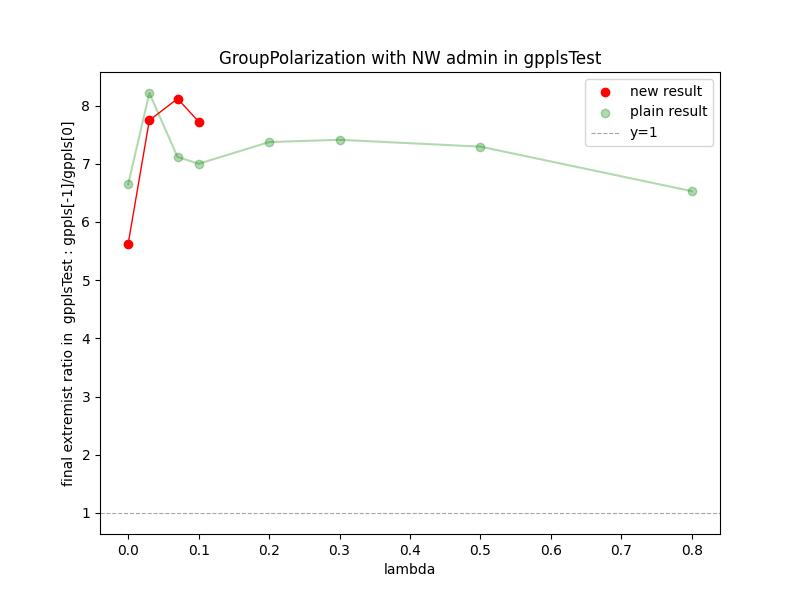
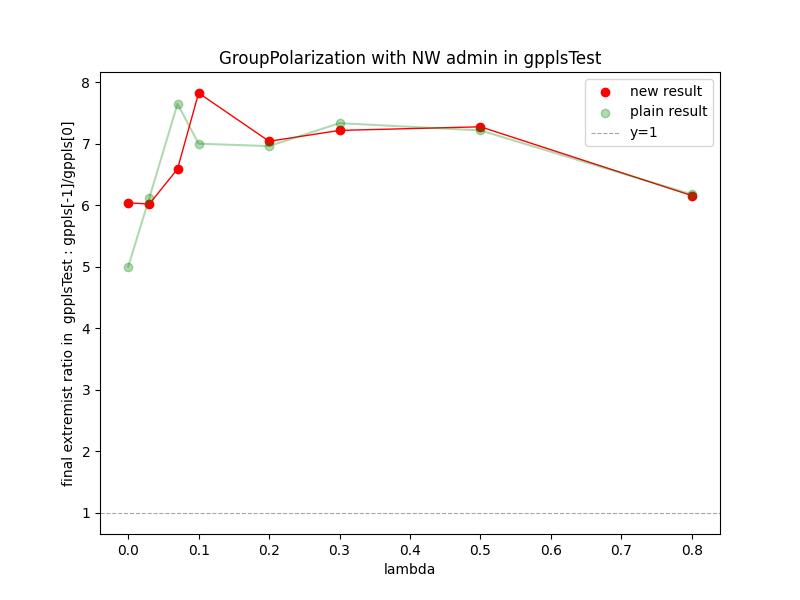
12/7

diff --git a/my_research/main/utils/calculater.java b/my_research/main/utils/calculater.java
@@ -7,6 +7,19 @@ import java.util.Random;
 
 public class calculater {
 
+    // calculate Disagreement
+    public static double computeDisagreement(double[] z, double[][] W) {
+        double disagg = 0.0;
+        for (int i = 0; i < z.length; i++) {
+            for (int j = 0; j < z.length; j++) {
+                if (W[i][j] > 0) {
+                    disagg += W[i][j] * (z[i] - z[j]) * (z[i] - z[j]);
+                }
+            }
+        }
+        return disagg;
+    }
+
     // calculate Group Polarization
     public static double computeGpPls(double[] z) {
         int extreme = 0;
@@ -22,14 +35,16 @@ public class calculater {
     public static double computeStf(double[] z, double[][] W, Map<Integer, List<Integer>> communities) {
         /// homogeneous effect
         double homogeneous = 0.0;
+        double total = 0.0;
         for (int i = 0; i < z.length; i++) {
             int links = 0;
-            int similar = 0;
+            double similar = 0.0;
             for (int j = 0; j < z.length; j++) {
+                total += W[i][j];
                 if (W[i][j] > Constants.W_THRES) {
                     links++;
-                    if (z[j] >= z[i] - 0.2 && z[j] <= z[i] + 0.2) {
-                        similar++;
+                    if (z[j] >= z[i] - 0.1 && z[j] <= z[i] + 0.1) {
+                        similar += W[i][j];
                     }
                 }
             }
@@ -39,7 +54,9 @@ public class calculater {
                 homogeneous += 0;
             }
         }
+        //homogeneous = homogeneous / total;//全体のリンクのうち、何割が意見が近い人との交流に当てられたか。
         homogeneous = homogeneous / z.length;
+        homogeneous = 1 / (1 + Math.exp(- 2 * homogeneous + 4));
 
         /// connection effect
         double connect = 0.0;
@@ -113,6 +130,7 @@ public class calculater {
         double satisfaction = alpha * homogeneous + beta * connect + gamma * avgentropy;
         System.out.println("\nEcho effect in Stfs: " + homogeneous);
         System.out.println("Diversity effect in Stfs: " + avgentropy);
+        System.out.println("Connect effect in Stfs: " + connect);
 
         return satisfaction;
     }

diff --git a/my_research/main/AdminGame.java b/my_research/main/AdminGame.java
@@ -29,9 +29,8 @@ public class AdminGame {
         //System.out.println("\npls before iteration: "+ optimization.computePls(z));
 
         ///// Set disaggs
-        double[][] L = matrix_util.createL(W, W.length);
         ArrayList<Double> disaggs = new ArrayList<>();
-        disaggs.add(computeDisagreement(z, L));
+        disaggs.add(calculater.computeDisagreement(z, W));
         //System.out.println("\ndisagg before iteration: "+computeDisagreement(z, L));
 
         ///// Set gppls
@@ -196,8 +195,7 @@ public class AdminGame {
                 first_conv = false;
             }
 
-            L = matrix_util.createL(W, W.length);
-            double disagg = computeDisagreement(z, L);
+            double disagg = calculater.computeDisagreement(z, W);
             disaggs.add(disagg);
             //System.out.println("\ndisagg: " + disagg);
 
@@ -288,25 +286,5 @@ public class AdminGame {
 
         // Return the square root of the sum of squared differences
         return Math.sqrt(sumSquaredDifferences);
-    }
-
-    // calculate z^T * L * z: Global disagreement is scalar
-    private static double computeDisagreement(double[] z, double[][] L) {
-        double[] temp = new double[z.length];
-        double disagreement = 0.0;
-
-        // calculate L * z
-        for (int i = 0; i < z.length; i++) {
-            for (int j = 0; j < z.length; j++) {
-                temp[i] += L[i][j] * z[j];
-            }
-        }
-
-        // then calculate z^T * temp
-        for (int i = 0; i < z.length; i++) {
-            disagreement += z[i] * temp[i];
-        }
-
-        return disagreement;
     }
 }

diff --git a/my_research/main/Random/make_randomopinon.py b/my_research/main/Random/make_randomopinon.py
@@ -11,6 +11,16 @@ col2 = [0] * number
 
 # 3列目: 正規分布に従った実数を生成 (平均0.5, 標準偏差0.1)
 col3 = np.random.normal(0.5, 0.25, number)
+#col3 = np.random.uniform(0, 1, number)
+
+
+# 0.4を平均、0.2を標準偏差とした正規分布
+dist1 = np.random.normal(0.4, 0.2, number/2)
+# 0.6を平均、0.2を標準偏差とした正規分布
+dist2 = np.random.normal(0.6, 0.2, number/2)
+# 二つの分布を重ねる（結合する）
+#col3 = np.concatenate([dist1, dist2])
+np.random.shuffle(col3)
 
 # 0以下と1以上の値をクリッピング
 col3 = np.clip(col3, 0, 1)

diff --git a/my_research/main/utils/optimization.java b/my_research/main/utils/optimization.java
@@ -137,6 +137,7 @@ public class optimization {
                 for (int j = 0; j < n; j++) {
                     if (i != j) {
                         double diff = 10 - 25 * Math.abs(z[i] - z[j]);
+                        //double diff = (z[i] - z[j]) * (z[i] - z[j]);
                         objExp.addTerm(diff, x[i][j]);
                         // diff*x[i][j]という項(Term)をAddする、という意味
                     }
